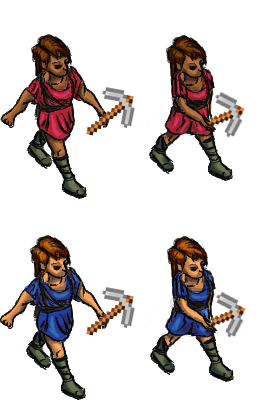
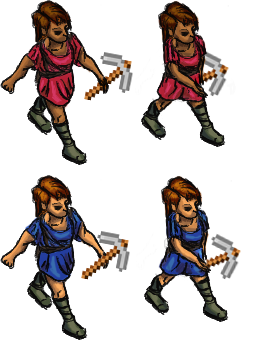
some scaling etc

diff --git a/CodenameProjectTwo/AbstractClientItem.cs b/CodenameProjectTwo/AbstractClientItem.cs
@@ -164,13 +164,9 @@ namespace CodenameProjectTwo {
                 DelayUtil.delayUtil(600, () => CGlobal.textureVector.X = 1);
                 DelayUtil.delayUtil(900, () => isAnim = false);
             }
-            if (People && Type == 102 || People && Type == 100) {
-                //137 173 total:249
-                Sprite.TextureRect = new IntRect(CGlobal.textureVector.X * 140, intfaction * 200, 140, 200);
-            }
-
-            if (People && Type == 101) {
-                Sprite.TextureRect = new IntRect(CGlobal.textureVector.X * 146, intfaction * 184, 146, 184);
+            if (People) {
+                //130 170
+                Sprite.TextureRect = new IntRect(CGlobal.textureVector.X * 115, intfaction * 151, 115, 150);
             }
 
         }

diff --git a/CodenameProjectTwo/Communication.cs b/CodenameProjectTwo/Communication.cs
@@ -45,8 +45,10 @@ namespace CodenameProjectTwo
             om.Write(CGlobal.BOUNDINGSIZE_MESSAGE);
             for (int i = 0; i < CGlobal.PEOPLE_TEXTURES.Length; i++) {
                 om.Write((Int32)i + CGlobal.PEOPLE_ID_OFFSET);//type
-                om.Write((Int32)CGlobal.PEOPLE_TEXTURES[i].Size.X);//x size
-                om.Write((Int32)CGlobal.PEOPLE_TEXTURES[i].Size.Y);//y size
+                //om.Write((Int32)CGlobal.PEOPLE_TEXTURES[i].Size.X);//x size
+                //om.Write((Int32)CGlobal.PEOPLE_TEXTURES[i].Size.Y);//y size
+                om.Write((Int32)115);//x size
+                om.Write((Int32)150);//y size
             }
             for (int i = 0; i < CGlobal.BUILDING_TEXTURES.Length; i++) {
                 om.Write((Int32)i);//type
